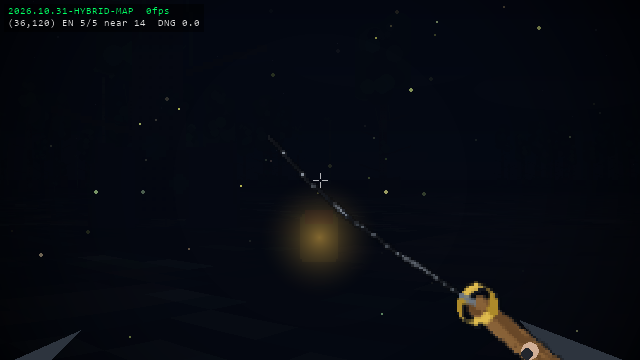
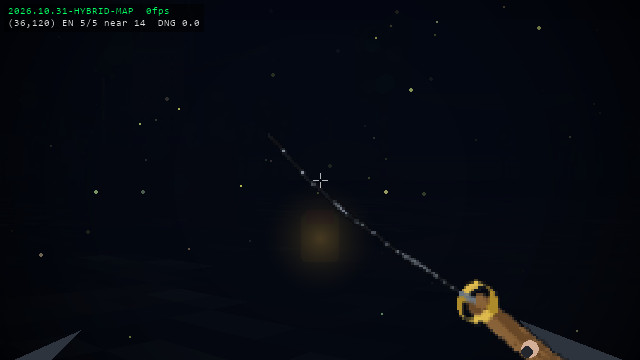
feat(renderer): add atmospheric depth-fog overlay
Add a depth-based fog pass that combines per-column wall distance from the
z-buffer with a cached vertical bell curve centered on the horizon. The fog
is drawn after world sprites but before the flashlight so the beam cuts
through it. Uses a single pre-allocated alpha surface with per-frame alpha
updates via numpy, avoiding per-pixel loops and surface allocations.

diff --git a/renderer.py b/renderer.py
@@ -285,6 +285,15 @@ class Renderer:
         # reusable full-screen overlay surfaces (allocated once, not every frame)
         self._flash_surf = pygame.Surface((self.w, self.h), pygame.SRCALPHA).convert_alpha()
         self._blood_surf = pygame.Surface((self.w, self.h), pygame.SRCALPHA).convert_alpha()
+        # Depth-fog overlay: one pre-allocated alpha surface, reused every frame.
+        # The fog colour comes from settings.FOG_COLOR; the alpha pattern is
+        # rebuilt each frame from the z-buffer (per-column wall depth) blended
+        # with a cached vertical bell curve (concentrates fog near the horizon).
+        self._fog_surf = pygame.Surface((self.w, self.h), pygame.SRCALPHA).convert_alpha()
+        # Pre-fill the RGB channels once; only the alpha channel is updated
+        # per frame via pixels_alpha (the RGB never changes).
+        self._fog_surf.fill((FOG_COLOR[0], FOG_COLOR[1], FOG_COLOR[2], 0))
+        self._fog_vkey = None   # cache key for the vertical bell curve
         self._dbg_key = None
         self._dbg_surf = None
         self.hit_fx = []  # small blood / ectoplasm / spark particles spawned on enemy hits
@@ -752,6 +761,11 @@ class Renderer:
         # 4. Trees + undergrowth + enemies + pickups: ONE depth-sorted pass
         self._draw_world_sprites(player, enemies, game_map)
 
+        # 4b. Atmospheric depth-fog: drawn after sprites so distant trees/walls
+        # get hazed, but before the flashlight so the beam cuts through it.
+        if not self.debug_f4:
+            self._draw_depth_fog(player, game_map)
+
         # 5. Darkness + flashlight (ONCE).  F4 shows the raw, unlit scene.
         self.flashlight.update(dt, abs(player.bob_amount) > 0.5, getattr(player, '_last_mouse_dx', 0.0), player.flashlight_battery)
         if not self.debug_f4:
@@ -1060,6 +1074,75 @@ class Renderer:
             cols = [tex.subsurface((x, 0, 1, h)) for x in range(tex.get_width())]
             self._wall_col_cache[id(tex)] = cols
         return cols
+
+    def _draw_depth_fog(self, player, game_map):
+        """Subtle atmospheric depth-fog overlay.
+
+        Combines two depth cues into one cheap alpha blit:
+
+        1. **Per-column depth** from the z-buffer: each screen column's wall
+           distance maps to a fog alpha (0 up close, max at FOG_FAR).  Columns
+           where no wall was hit stay at the far-distance alpha, so open sky
+           gaps and distant tree lines get a natural haze.
+
+        2. **Vertical bell curve** centered on the horizon: fog concentrates
+           where distant geometry appears (near the horizon), tapering to
+           zero at the top and bottom of the screen.  The curve is cached and
+           only rebuilt when the horizon shifts.
+
+        The result is written to a pre-allocated alpha surface (RGB set once
+        at init, only the alpha channel is updated per frame) and blitted
+        with a normal alpha blend.  The flashlight pass runs *after* this, so
+        the beam naturally cuts through the fog.
+
+        Cost: one numpy outer product + one alpha-channel write per frame.
+        No per-pixel Python loops, no surface allocations.
+        """
+        if not getattr(_settings_mod, 'ENABLE_FOG', True):
+            return
+
+        h = self.h
+        w = self.w
+        pitch_offset = int(player.pitch * h)
+        horizon = h // 2 + pitch_offset
+
+        # ── Per-column fog alpha from the z-buffer ────────────────────────
+        # z_buffer has one entry per ray; map screen columns to ray indices.
+        zb = self.z_buffer
+        col_depth = zb[self._col_to_ray]      # (w,) float64 in tile units
+
+        # Normalise to [0, 1]:  0 at FOG_NEAR (clear), 1 at FOG_FAR (max fog).
+        # Columns where no wall was hit (z == MAX_DEPTH+1) map to 1.0.
+        t = np.clip((col_depth - FOG_NEAR) / max(0.1, FOG_FAR - FOG_NEAR), 0.0, 1.0)
+        # Smooth curve so fog ramps gently, not a hard step.
+        col_alpha = (t * t * (3.0 - 2.0 * t)).astype(np.float32)  # smoothstep
+
+        # ── Vertical bell curve (cached, rebuilt only when horizon moves) ─
+        vkey = horizon
+        v_profile = None
+        if self._fog_vkey == vkey:
+            v_profile = self._fog_vcurve
+        if v_profile is None:
+            ys = np.arange(h, dtype=np.float32)
+            # Gaussian centred on the horizon, sigma ≈ 0.22 * h.
+            sigma = max(1.0, h * 0.22)
+            dy = ys - float(horizon)
+            v_profile = np.exp(-(dy * dy) / (2.0 * sigma * sigma))
+            self._fog_vcurve = v_profile
+            self._fog_vkey = vkey
+
+        # ── Combine: outer product of (rows,) × (cols,) → (h, w) ──────────
+        # Convert to the alpha value, clipped to FOG_MAX_ALPHA.
+        fog_alpha = (v_profile[:, None] * col_alpha[None, :]) * FOG_MAX_ALPHA
+        fog_alpha = np.clip(fog_alpha, 0, 255).astype(np.uint8)   # (h, w)
+
+        # ── Write to the pre-allocated surface's alpha channel ────────────
+        # pygame surfarray uses (width, height) ordering, so transpose.
+        av = pygame.surfarray.pixels_alpha(self._fog_surf)
+        av[:, :] = fog_alpha.T
+        del av
+
+        self.surface.blit(self._fog_surf, (0, 0))
 
     def _dda_cast(self, px, py, cos_a, sin_a, game_map):
         """Digital Differential Analyzer raycasting. Returns (dist, wall_type, hit_frac, side)."""

diff --git a/settings.py b/settings.py
@@ -356,6 +356,10 @@ BEAM_GLOW = (240, 240, 235)  # neutral white 5000K LED main beam
 HOTSPOT_GLOW = (255, 255, 250) # intense neutral white hotspot
 PERIPHERAL_SPILL = (35, 45, 65) # faint 10% spill in atmospheric haze
 FOG_DISTANCE = 35.0
+# Atmospheric depth-fog overlay parameters (subtle haze; controlled by ENABLE_FOG)
+FOG_NEAR = 8.0       # tiles: fog begins here (closer surfaces stay clear)
+FOG_FAR = 28.0       # tiles: fog reaches maximum opacity
+FOG_MAX_ALPHA = 90   # 0-255; 90 ≈ 35% (subtle, never blinds the player)
 AMBIENT = FLASHLIGHT_AMBIENT_LEVEL
 AMBIENT_LIGHT_OFF = 0.02
 ENEMY_EYE_GLOW = True
